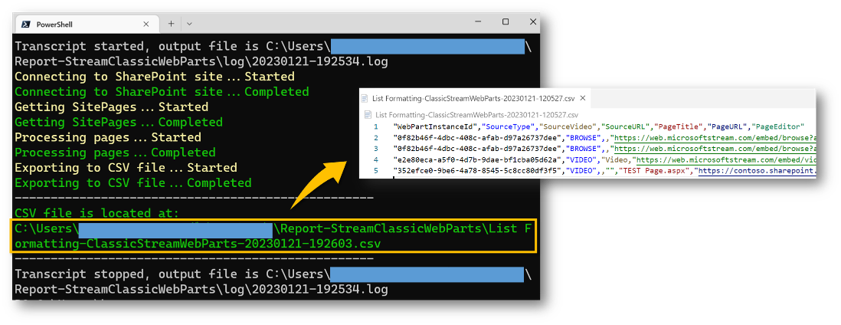
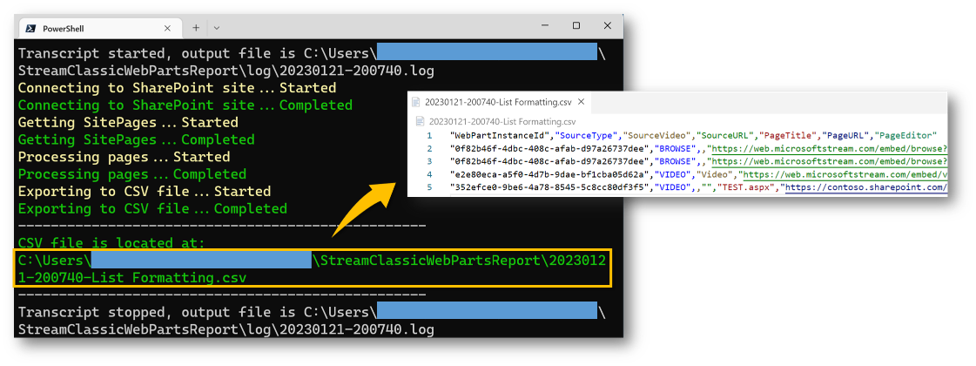
Updated README.md

Changed region(s): [[0.0, 0.0615, 0.9893, 0.9231], [0.9584, 0.2462, 0.9893, 0.3077]]

diff --git a/scripts/spo-export-stream-classic-webparts/README.md b/scripts/spo-export-stream-classic-webparts/README.md
@@ -14,7 +14,7 @@ In addition to migrating the video, this retirement may also involve replacing S
 
 ![Stream (Classic) Web Parts](./assets/stream.png)
 
-This sample script helps you understand how many Stream (Classic) Web Parts are being used by your site by outputting a CSV file of the Stream (Classic) Web Parts and the pages that use them. The CSV file is created in the Report-StreamClassicWebParts folder in My Documents.
+This sample script helps you understand how many Stream (Classic) Web Parts are being used by your site by outputting a CSV file of the Stream (Classic) Web Parts and the pages that use them. The CSV file is created in the StreamClassicWebPartsReport folder in My Documents.
 
 ![Example Screenshot](./assets/example.png)
 
@@ -35,15 +35,16 @@ param(
     [switch]$openFolder = $false
 )
 
-$csvFolderPath = "$([Environment]::GetFolderPath("MyDocuments"))\Report-StreamClassicWebParts"
-$logFolderPath = "$([Environment]::GetFolderPath("MyDocuments"))\Report-StreamClassicWebParts\log"
+$csvFolderPath = "$([Environment]::GetFolderPath("MyDocuments"))\StreamClassicWebPartsReport"
+$logFolderPath = "$([Environment]::GetFolderPath("MyDocuments"))\StreamClassicWebPartsReport\log"
 
 # Create the log and csv folder if they don't exist
 if(!(Test-Path $csvFolderPath)){New-Item -ItemType Directory -Path $csvFolderPath}
 if(!(Test-Path $logFolderPath)){New-Item -ItemType Directory -Path $logFolderPath}
 
 # Start logging
-Start-Transcript -Path "$logFolderPath\$($(Get-Date).ToString("yyyyMMdd-HHmmss")).log"
+$timeStamp = (Get-Date).ToString("yyyyMMdd-HHmmss")
+Start-Transcript -Path "$logFolderPath\$($timeStamp).log"
 
 # Connect to SharePoint site
 try {
@@ -99,8 +100,7 @@ try {
     # Export web parts to CSV
     try {
         $site = Get-PnPWeb
-        $timeStamp = (Get-Date).ToString("yyyyMMdd-HHmmss")
-        $csvFilePath = "$csvFolderPath\$($site.Title)-ClassicStreamWebParts-$timeStamp.csv"
+        $csvFilePath = "$csvFolderPath\$($timeStamp)-$($site.Title).csv"
 
         Write-Host "Exporting to CSV file...Started" -ForegroundColor Yellow
         $streamWebParts | Export-Csv $csvFilePath -ErrorAction Stop
@@ -134,7 +134,7 @@ finally {
 ## Contributors
 
 | Author(s)        |
-| ---------------- |
+|------------------|
 | Tetsuya Kawahara |
 
 [!INCLUDE [DISCLAIMER](../../docfx/includes/DISCLAIMER.md)]
